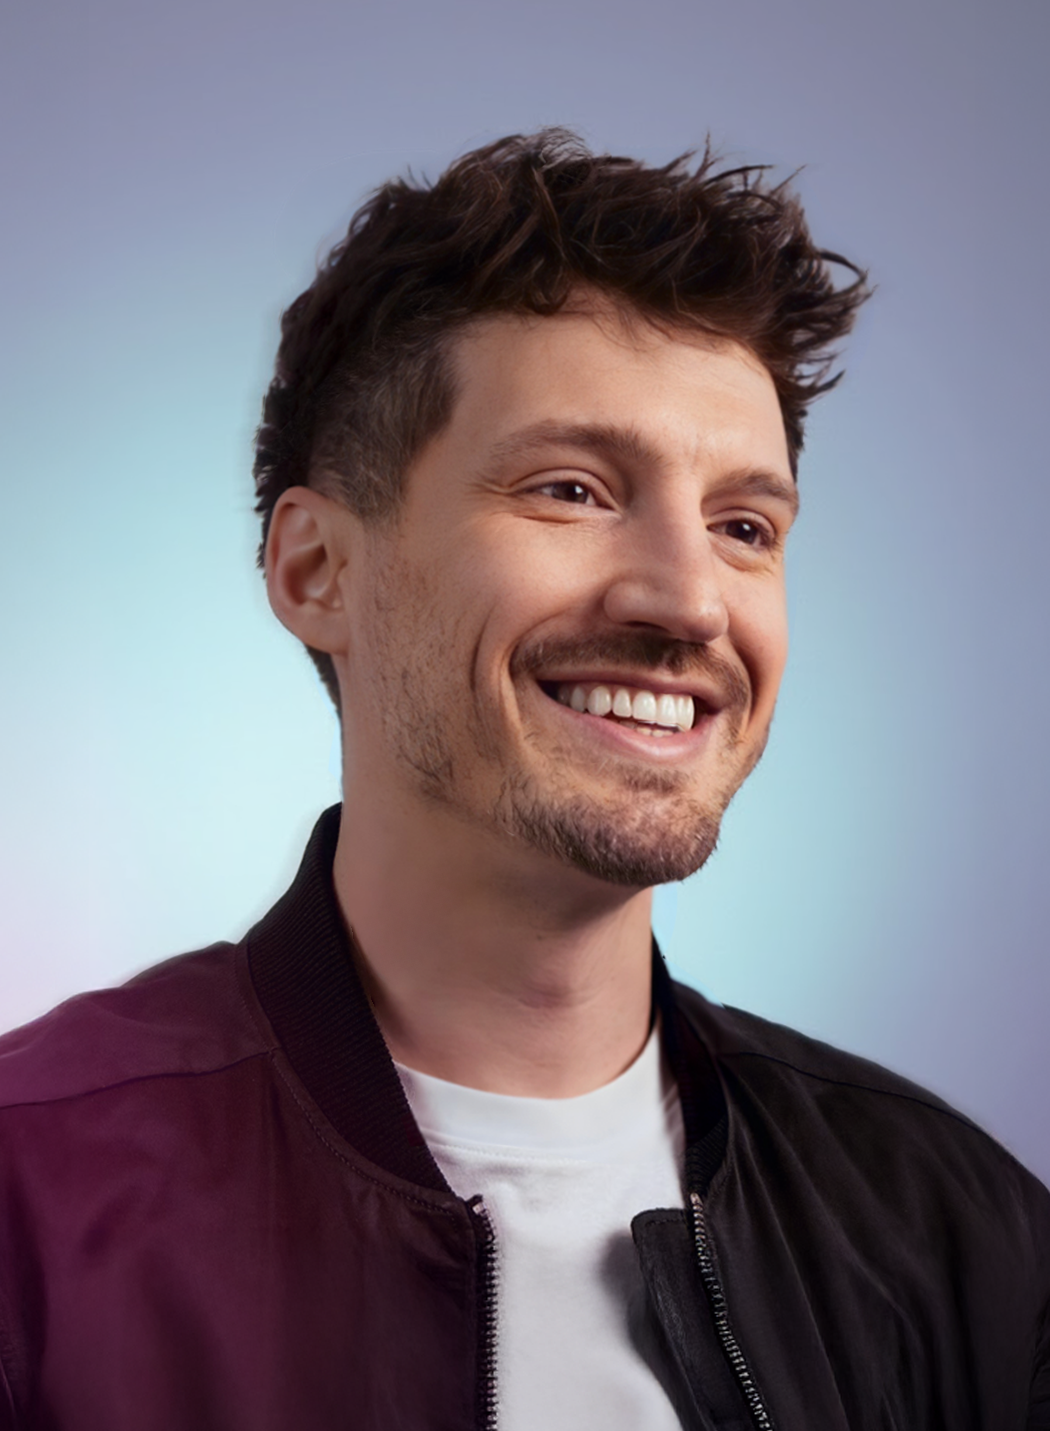
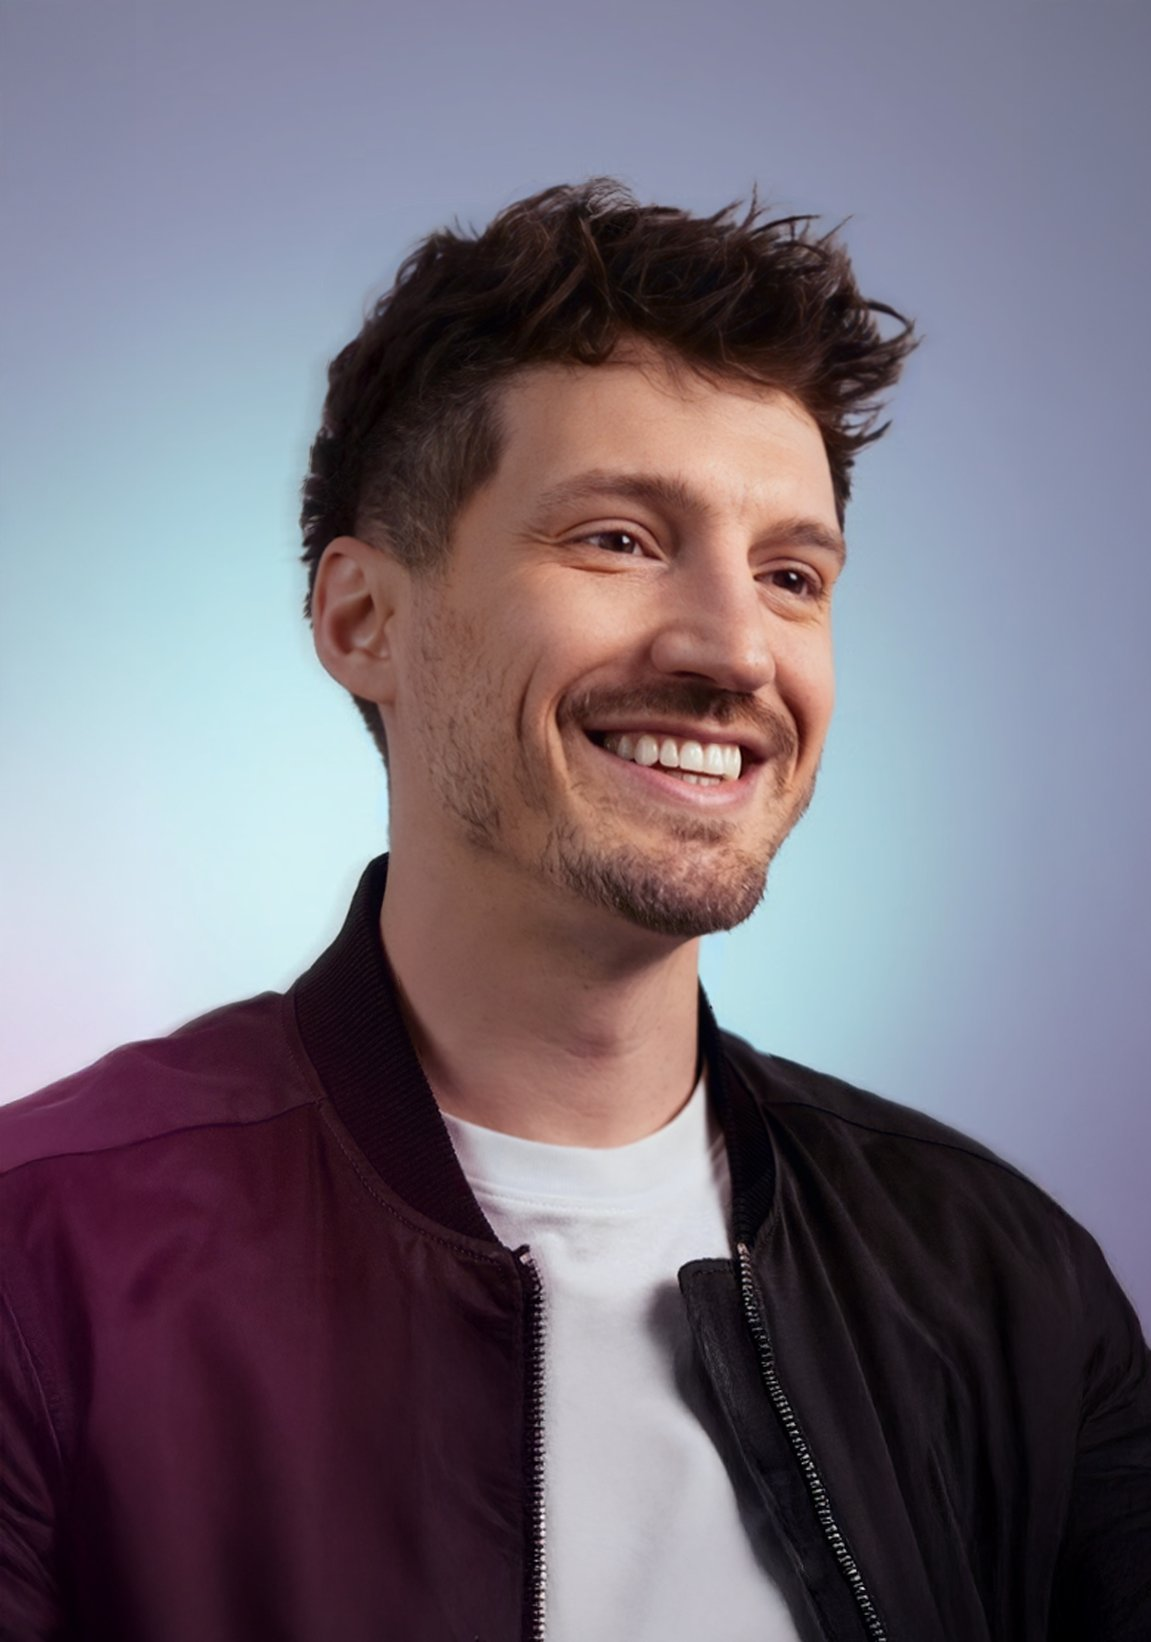
Add files via upload

diff --git a/index.html b/index.html
@@ -83,14 +83,14 @@ nav {
 .nav-contact-btn:hover { background:var(--or2); }
 
 /* ── HERO ── */
-#home { min-height:auto; padding-top:60px; display:grid; grid-template-columns:5fr 6fr; position:relative; overflow:hidden; }
+#home { min-height:auto; padding-top:60px; display:grid; grid-template-columns:5fr 6fr; position:relative; overflow:hidden; max-height:min(740px, calc(100vh - 60px)); }
 .hero-atm { position:absolute; inset:0; pointer-events:none; background: radial-gradient(ellipse 70% 60% at 15% 85%, rgba(245,106,0,0.09) 0%, transparent 60%), radial-gradient(ellipse 40% 50% at 60% 15%, rgba(200,146,42,0.06) 0%, transparent 65%); }
 .hero-lines { position:absolute; inset:0; pointer-events:none; opacity:0.5; overflow:hidden; }
 .hero-lines svg { width:100%; height:100%; }
 .hero-left { display:flex; flex-direction:column; justify-content:center; padding:48px 0 48px 44px; position:relative; z-index:2; }
 .hero-right { position:relative; overflow:hidden; }
 .hero-right::after { content:''; position:absolute; inset:0; background:linear-gradient(to right, var(--bg) 0%, transparent 12%), linear-gradient(to top, rgba(15,13,11,0.4) 0%, transparent 25%); }
-.hero-photo { width:100%; height:100%; object-fit:cover; object-position:center top; filter:brightness(0.88) contrast(1.05) saturate(0.95); display:block; max-height:calc(100vh - 60px); }
+.hero-photo { width:100%; height:100%; object-fit:cover; object-position:center top; filter:brightness(0.88) contrast(1.05) saturate(0.95); display:block; max-height:min(680px, calc(100vh - 60px)); }
 .hero-eyebrow { font-size:0.62rem; font-weight:500; letter-spacing:0.22em; text-transform:uppercase; color:var(--or); display:flex; align-items:center; gap:12px; margin-bottom:14px; }
 .hero-eyebrow::before { content:''; display:block; width:26px; height:1px; background:var(--or); }
 .hero-name { font-family:var(--fd); font-size:clamp(5rem,10vw,9.5rem); font-weight:900; line-height:0.86; text-transform:uppercase; letter-spacing:-0.01em; color:var(--cream); }
@@ -244,6 +244,38 @@ footer { background:var(--bg); border-top:1px solid var(--border); padding:28px 
 .res-photo:nth-child(1) { grid-column:1/2; aspect-ratio:1/1; max-height:240px; }
 .res-photo:nth-child(2) { grid-column:2/3; aspect-ratio:1/1; max-height:240px; }
 .res-photo:nth-child(3) { grid-column:1/3; aspect-ratio:21/7; max-height:200px; }
+
+/* ── LARGE SCREEN (1400px+) ── */
+@media (min-width:1400px) {
+  .hero-name { font-size:7rem; }
+  .hero-sub { font-size:1.15rem; max-width:400px; }
+  .stitle { font-size:3.8rem; }
+  .abody { font-size:1.1rem; max-width:480px; }
+  .about-frame { max-height:360px; }
+  .res-venue { font-size:3.2rem; }
+  .res-body { font-size:1.1rem; }
+  .res-night { font-size:0.75rem; padding:7px 18px; }
+  .res-photo:nth-child(1) { max-height:200px; }
+  .res-photo:nth-child(2) { max-height:200px; }
+  .res-photo:nth-child(3) { max-height:170px; }
+  #about { padding:32px 60px; }
+  #residency { padding:32px 60px; }
+  #music { padding:32px 60px; }
+  #streaming { padding:32px 60px; }
+  #gram { padding:24px 60px; }
+}
+
+/* ── MEDIUM-LARGE (1100px-1400px) ── */
+@media (min-width:1100px) and (max-width:1399px) {
+  .stitle { font-size:3.2rem; }
+  .abody { font-size:1.05rem; }
+  .res-venue { font-size:2.8rem; }
+  .res-body { font-size:1.05rem; }
+  .about-frame { max-height:380px; }
+  .res-photo:nth-child(1) { max-height:220px; }
+  .res-photo:nth-child(2) { max-height:220px; }
+  .res-photo:nth-child(3) { max-height:185px; }
+}
 
 /* ── MOBILE FIXES ── */
 @media (max-width:900px) {
@@ -436,7 +468,7 @@ footer { background:var(--bg); border-top:1px solid var(--border); padding:28px 
         <img src="res_stage1.jpg" alt="Joel Freck and PT93 performing live">
       </div>
       <div class="res-photo">
-        <img src="res_stage2.jpg" alt="Joel Freck and PT93 live Halifax crowd">
+        <img src="res_stage2.jpg" alt="Joel Freck and PT93 live Halifax crowd" style="object-fit:cover;object-position:center 30%;transform:scale(0.85);transform-origin:center;">
       </div>
     </div>
   </div>
@@ -550,6 +582,12 @@ const tracks = [
   { url:'https://soundcloud.com/joelfreck/halseywithoutme', short:'Without Me (Remix)', year:'2025' },
   { url:'https://soundcloud.com/joelfreck/pump-up-stephanie', short:'Pump Up Stephanie (Edit)', year:'2025' },
   { url:'https://soundcloud.com/joelfreck/messyremix', short:'Messy (Edit)', year:'2025' },
+  { url:'https://soundcloud.com/joelfreck/no-surrender-original-mixw-kayrae', short:'No Surrender (ft. Kayrae)', year:'2024' },
+  { url:'https://soundcloud.com/joelfreck/vaatu-original-mix', short:'Vaatu (Original Mix)', year:'2024' },
+  { url:'https://soundcloud.com/joelfreck/05-joel-freck-falling-radio', short:'Falling (Original Mix)', year:'2024' },
+  { url:'https://soundcloud.com/joelfreck/warehouse-original-mix', short:'Warehouse (Original Mix)', year:'2023' },
+  { url:'https://soundcloud.com/joelfreck/bounce-original-mix', short:'Bounce (Original Mix)', year:'2023' },
+  { url:'https://soundcloud.com/joelfreck/dawn', short:'Dawn', year:'2020' },
 ];
 
 const CARD_W = 204;